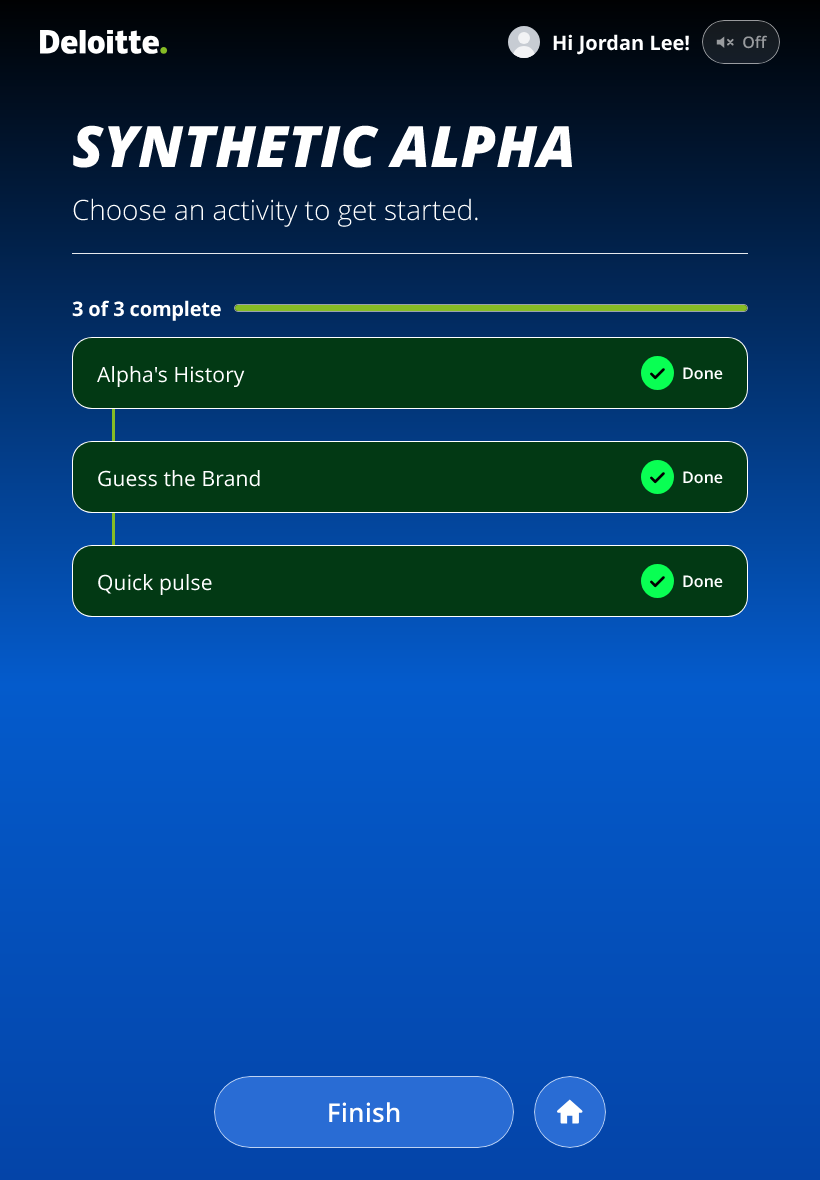
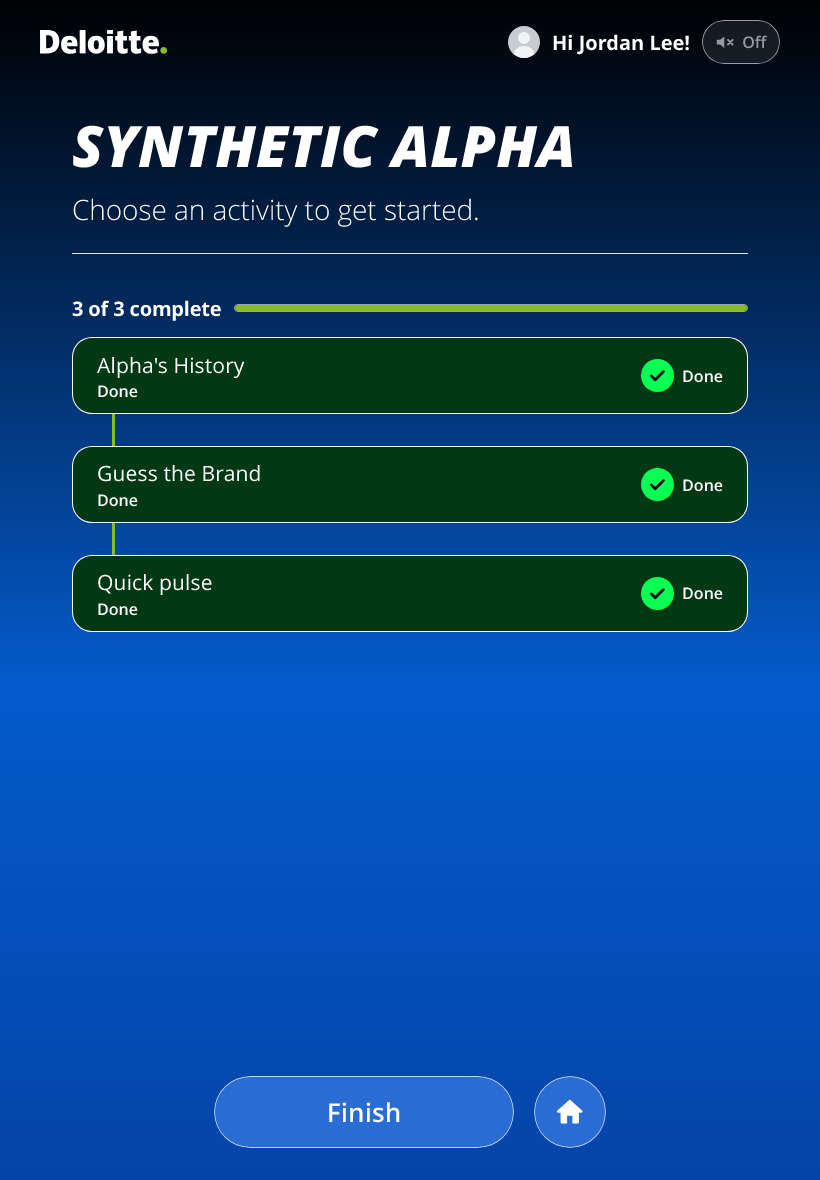
24-6: a done pill carries the board's Done caption, so the hub keeps one height with Brand Studio's preview; PHASE_24 as measured (participant 181,511 B, +4,702; admin 674,795 B, +4,365); RELEASE-24's cues, frames and gates; TESTING's count of the WebKit audio fault

Changed region(s): [[0.0915, 0.3051, 0.9146, 0.5492]]

diff --git a/migration/src/components/ActivityPill.svelte b/migration/src/components/ActivityPill.svelte
@@ -70,6 +70,7 @@
   <span class="text">
     <span class="label">{label}</span>
     {#if painted === 'locked'}<span class="caption" id={captionId}>{lockedCaption}</span>
+    {:else if painted === 'done'}<span class="caption">Done</span>
     {:else if painted === 'progress'}<span class="caption">{progressWords}</span>
     {:else if painted === 'ready' && readyWords}<span class="caption">{readyWords}</span>{/if}
   </span>

diff --git a/scripts/bundle-budget.js b/scripts/bundle-budget.js
@@ -487,6 +487,6 @@ export const PHASE_23 = Object.freeze({
  */
 export const PHASE_24 = Object.freeze({
   participantBefore: PHASE_23.participantAfter, adminBefore: PHASE_23.adminAfter, participantAllowance: 6_000, adminAllowance: 6_000,
-  participantAfter: 181_488, adminAfter: 674_786,
+  participantAfter: 181_511, adminAfter: 674_795,
   participantUtilities: PHASE_11A.participantUtilities,
 });

diff --git a/docs/history/RELEASE-24.md b/docs/history/RELEASE-24.md
@@ -47,27 +47,41 @@ A-weighted level while sounding, target about -22 dB, within 2 dB of the others.
 
 | Cue | Peak (dBFS) | Level (dB A) | Audible (s) | Max (s) |
 |---|---|---|---|---|
-| `stamp` | CUE_STAMP_PEAK | CUE_STAMP_LEVEL | CUE_STAMP_SECONDS | 0.25 |
-| `unlock` | CUE_UNLOCK_PEAK | CUE_UNLOCK_LEVEL | CUE_UNLOCK_SECONDS | 0.6 |
-| `locked` | CUE_LOCKED_PEAK | CUE_LOCKED_LEVEL | CUE_LOCKED_SECONDS | 0.25 |
-| `allDone` | CUE_ALLDONE_PEAK | CUE_ALLDONE_LEVEL | CUE_ALLDONE_SECONDS | 0.8 |
+| `stamp` | -5.7 | -23.3 | 0.113 | 0.25 |
+| `unlock` | -7.3 | -22.4 | 0.300 | 0.6 |
+| `locked` | -5.4 | -23.2 | 0.197 | 0.25 |
+| `allDone` | -11.0 | -22.1 | 0.444 | 0.8 |
 
 ## Long frames
 
-Chromium, CPU four times slower, a complete-then-return (`hub-states.spec.ts`): PERF_LINE. This stand-in is not an iPad: QA 287 is where a person judges it. The hub's paint cost was not measured apart from these frames.
+Chromium, CPU four times slower, a complete-then-return (`hub-states.spec.ts`): 91 frames after the first 8, p50 16.7 ms, p95 16.8 ms, longest 16.8 ms, none over 50 ms. This stand-in is not an iPad: QA 287 is where a person judges it. The hub's paint cost was not measured apart from these frames.
 
 ## Page sizes (gzip)
 
 | Page | Before | After | Change | Allowance |
 |---|---|---|---|---|
-| Participant | 176,809 B | SIZE_PARTICIPANT B | SIZE_PARTICIPANT_DELTA B | 6,000 B (ceiling 450,000 B) |
-| Admin | 670,430 B | SIZE_ADMIN B | SIZE_ADMIN_DELTA B | 6,000 B (budget 700,000 B) |
+| Participant | 176,809 B | 181,511 B | +4,702 B | 6,000 B (ceiling 450,000 B) |
+| Admin | 670,430 B | 674,795 B | +4,365 B | 6,000 B (budget 700,000 B) |
 
 ## Gates
 
 | Gate | Before (`pms-23`) | After |
 |---|---|---|
-GATES_ROWS
+| `check:svelte` | 0 errors | 0 errors |
+| The hub's quick suites, before the work (pager, effects, motion plan and engine, theme, waits) | 160 of 160 | Followed by the whole of `npm test`, below |
+| `npm test` | Not run on `pms-23` in this prompt | 2,064 of 2,064, after the last change |
+| `test:bundle` | Prompt 23's figures | Pass, participant +4,702 B |
+| `effects-audio.spec.ts`, Chromium | Not run on `pms-23` in this prompt | 25 of 25 |
+| `hub-states.spec.ts`, `hub-situations.spec.ts` | New | Pass, Chromium and WebKit (one skip: the frames are Chromium only) |
+| Browser subset, two browsers: a11y, keyboard, aria, reflow, contrast, motion, unsupported, effects, flow, participant, clients, brand-studio, devices, focus, alignment, sample-pictures, latency | Only the failures below were compared | 461 passed, 34 failed, 4 skipped; one of the 34 fixed since (below) |
+| Full `test:migration`, `test:report:mutations`, `oracle`, `test:charts` | Not run | Not run: left to the final round |
+
+The 34 browser failures:
+
+- **Fixed:** `brand-studio.spec.ts` "lay Welcome and the hub out the same way", in both browsers (2 of the 34). A done pill had no caption and was shorter than the real hub's first pill. It now carries the board's "Done" caption.
+- **Also failing on `pms-23`, checked in this prompt:** `contrast.spec.ts` admin (Live display ring, 1.64:1) and `devices.spec.ts` admin at iPhone landscape, in Chromium.
+- **Already recorded as faults of this machine or of earlier work, not rerun on `pms-23`:** `reflow.spec.ts` admin at 200% in both browsers, `flow.spec.ts` header, `keyboard.spec.ts` admin and the 25 of `effects-audio.spec.ts` in WebKit on Windows. That last one was 17 tests before the four cues added 8, so **the new cues have not been measured in WebKit here**.
+- **Order-dependent, and the same on `pms-23`:** `brand-studio.spec.ts` "an answer tile's picture", Chromium: it fails in a run of the whole file and passes alone, on both builds.
 
 ## Proposed, not done
 

diff --git a/docs/MODULES.md b/docs/MODULES.md
@@ -84,7 +84,7 @@ flowchart LR
 | `migration/src/unsupported/` | The "needs a recent browser" notice: a page and an ES5 check, put into each HTML shell at build time. | 1 |
 | `scripts/` | Node tests (`test-*.js`, run by `npm test` and the `test:*` scripts), the mocked SharePoint (`sharepoint-fake.js`), the oracle, the bundle and request baselines, the generators and the release packager. | 152 |
 | `scripts/local-site/` | The local PCOE stand-in (`npm run local:site`), its scenarios and VJR's dummy dataset, the screenshot harness and the measurements. | 11 |
-| `scripts/migration-tests/` | The Playwright specs of `npm run test:migration`, and their harnesses (`admin-local.ts`, `polling-support.ts`, `fixtures.ts`). | 81 |
+| `scripts/migration-tests/` | The Playwright specs of `npm run test:migration`, and their harnesses (`admin-local.ts`, `polling-support.ts`, `fixtures.ts`). | 82 |
 | `scripts/rehearsal-tests/` | The rehearsal of RUNBOOK.md on the mock with a package's own pages (`npm run test:rehearsal`). | 1 |
 | `scripts/schema-baseline/` | The schema as it was before Phase 10c-2b, and the scripts that translated the request baselines (each baseline names the one that touched it). | 11 |
 | `scripts/styleguide-tests/` | The styleguide's audit (`npm run test:styleguide`). | 1 |

diff --git a/docs/TESTING.md b/docs/TESTING.md
@@ -33,7 +33,7 @@ What each gate proves, how long it takes on the development machine (a Windows l
 **Known flakes:** two tests read a record back the moment the screen says it is saved, before the write has landed, and fail now and then on this
 machine: `admin-today.spec.ts` "slugs" (3 of 3 on the untouched commit of Phase 13) and `brand-studio.spec.ts` "an answer tile's picture can be uploaded
 in Content" (7 of 9 runs on the untouched `1ab63bd`, 6 of 9 on Phase 14's branch). Neither is a regression of a change unless it fails differently. Also on
-this machine, before and after every change, in WebKit on Windows: 17 tests of `effects-audio.spec.ts`, `brand-smoke.spec.ts`, `flow.spec.ts` (a tile whose picture fails) and one `keyboard.spec.ts` test fail.
+this machine, before and after every change, in WebKit on Windows: 25 tests of `effects-audio.spec.ts`, `brand-smoke.spec.ts`, `flow.spec.ts` (a tile whose picture fails) and one `keyboard.spec.ts` test fail.
 
 **One browser, one file:** `npx playwright test --config migration/playwright.config.ts --project=chromium scripts/migration-tests/flow.spec.ts`
 (build the pages first: `npm run build:svelte:release`). What does not run in an engine, and why, is listed at the top of
